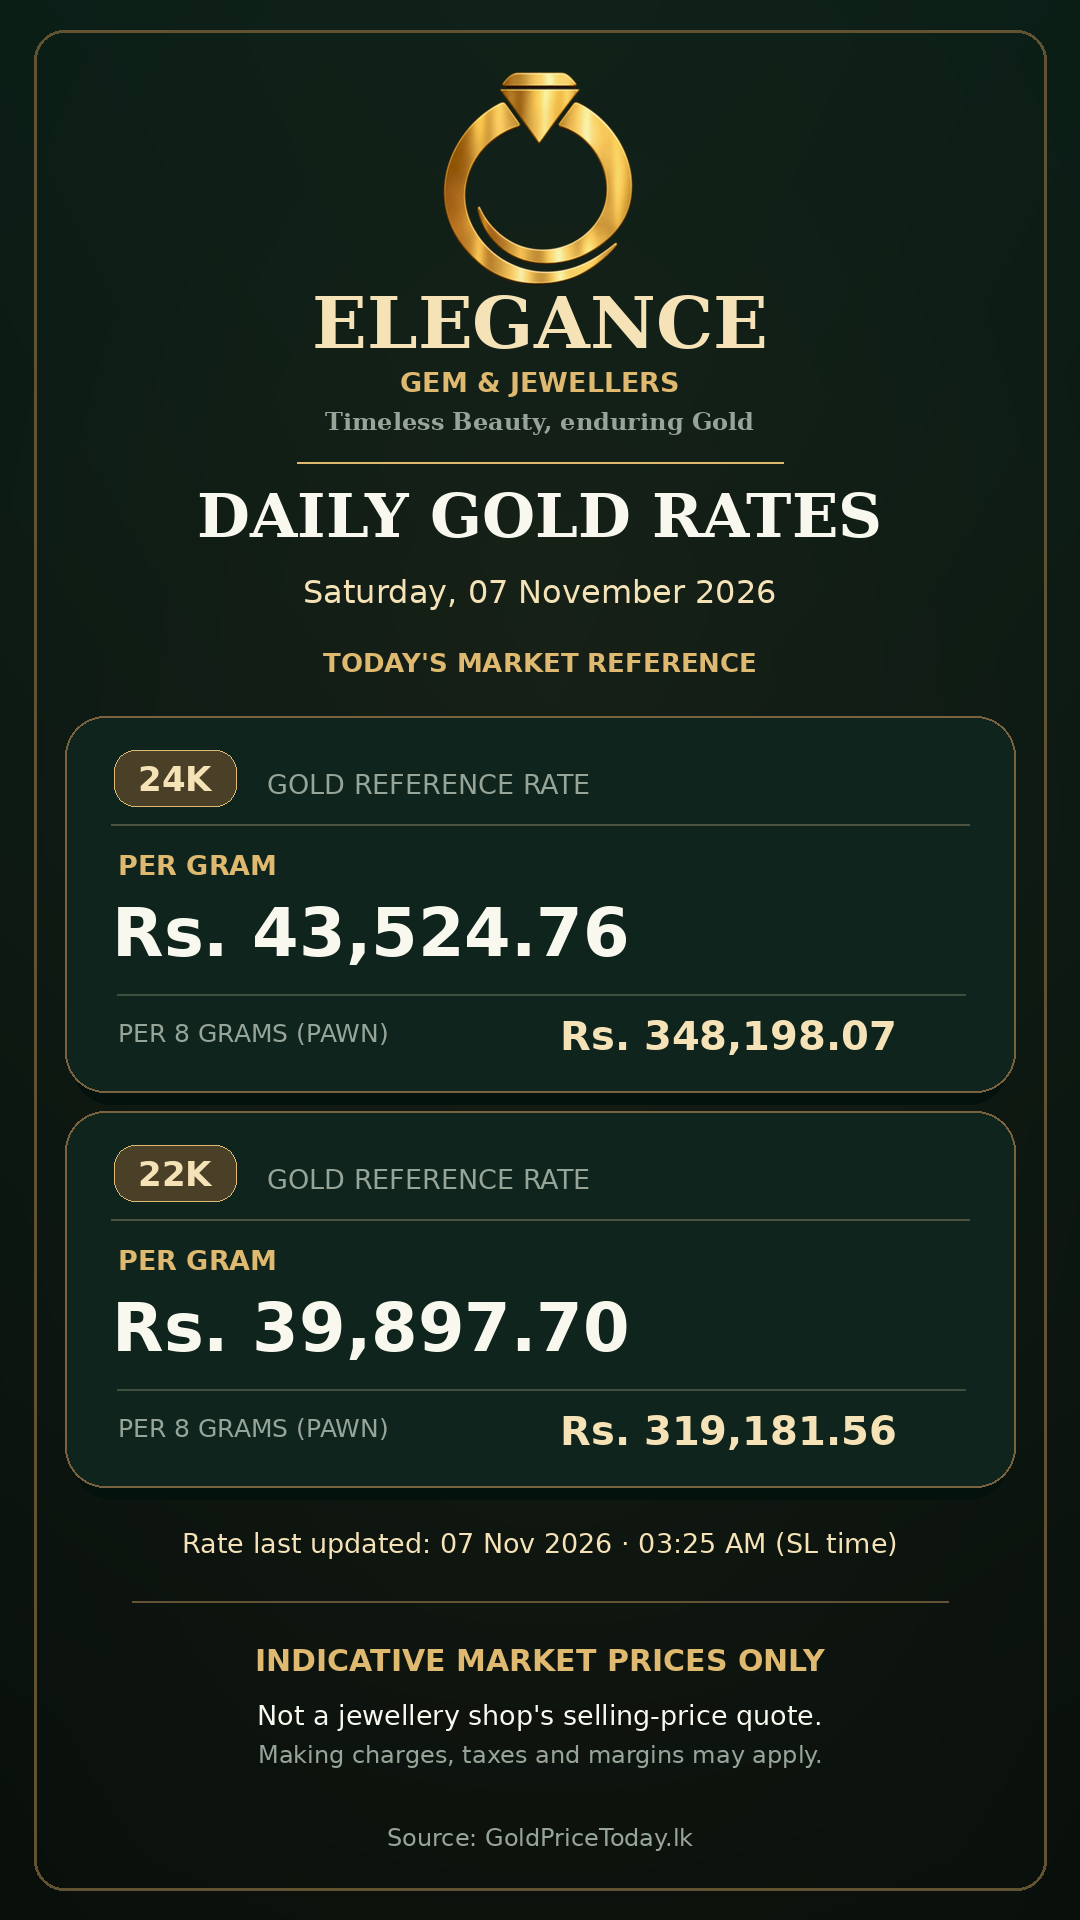
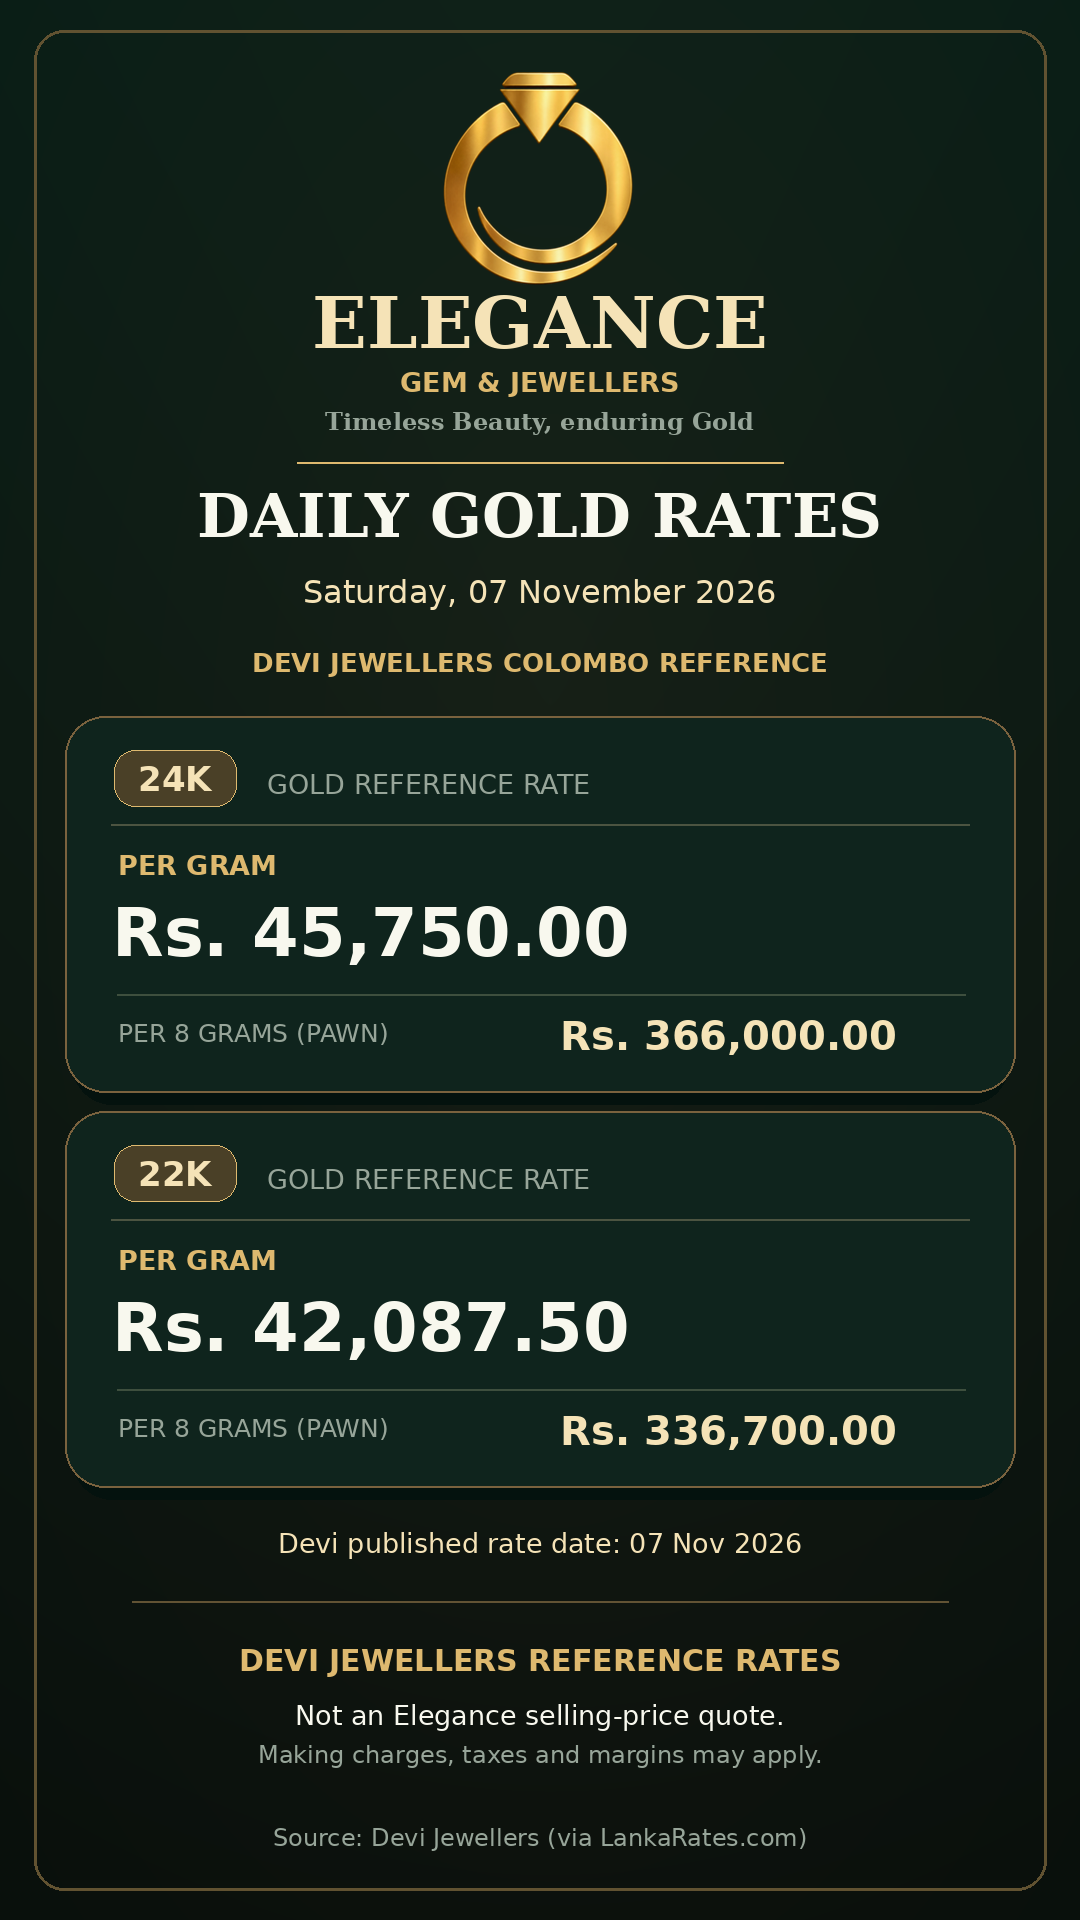
Switch Elegance gold-rate feed to Devi Jewellers Colombo

diff --git a/docs/index.html b/docs/index.html
@@ -14,7 +14,7 @@
 <body>
   <h1>Daily gold-rate image</h1>
   <p><a href="today.png">Open today's image</a></p>
-  <img src="today.png" alt="Latest indicative 22K and 24K gold prices">
-  <small>Indicative market reference, not a jewellery selling-price quote. See image for source timestamp.</small>
+  <img src="today.png" alt="Latest Devi Jewellers Colombo 22K and 24K gold reference rates">
+  <small>Devi Jewellers reference rate via LankaRates.com, not an Elegance selling-price quote. See image for source date.</small>
 </body>
 </html>

diff --git a/generate.py b/generate.py
@@ -1,8 +1,8 @@
 #!/usr/bin/env python3
-"""Create a daily, clearly labelled Sri Lankan gold-rate Status image.
+"""Create a daily Status image using Devi Jewellers' Colombo gold rates.
 
-The input is an indicative market-reference API, NOT a jewellery retail quote.
-Fail closed when the source is malformed or too old. `--demo` never uses live data.
+The public LankaRates comparison page republishes Devi's prices, in LKR per
+8-gram pawn. Do not call its pawn figures 'per gram'. Fail closed if stale.
 """
 
 import argparse
@@ -10,8 +10,10 @@ import json
 import math
 import os
 from datetime import datetime, timedelta
+from html.parser import HTMLParser
 from pathlib import Path
 from urllib.request import Request, urlopen
+from urllib.parse import urlparse
 from zoneinfo import ZoneInfo
 
 from PIL import Image, ImageDraw, ImageFilter, ImageFont
@@ -19,8 +21,9 @@ from PIL import Image, ImageDraw, ImageFilter, ImageFont
 
 ROOT = Path(__file__).resolve().parent
 OUTPUT = ROOT / "docs"
-SOURCE_API = "https://www.goldpricetoday.lk/api/v1/gold-price"
-SOURCE_NAME = "GoldPriceToday.lk"
+SOURCE_API = "https://lankarates.com/gold-rates"
+DEVI_SOURCE = "https://devijewellers.lk/gold-rate/"
+SOURCE_NAME = "Devi Jewellers (via LankaRates.com)"
 COLOMBO = ZoneInfo("Asia/Colombo")
 WIDTH, HEIGHT = 1080, 1920
 GOLD = (222, 185, 111)
@@ -64,6 +67,83 @@ def validate_rate(payload: dict, now: datetime) -> dict:
     return {"as_of": when, "prices": prices}
 
 
+class RatePageParser(HTMLParser):
+    """Collect publicly rendered Astro widget data from LankaRates' gold page."""
+
+    def __init__(self):
+        super().__init__()
+        self.props = []
+
+    def handle_starttag(self, tag, attrs):
+        if tag == "astro-island":
+            value = dict(attrs).get("props")
+            if value:
+                self.props.append(value)
+
+
+def unwrap_astro(value):
+    """Decode Astro's simple [type, value] wrappers for JSON widget props."""
+    if isinstance(value, list) and len(value) == 2 and value[0] in (0, 1):
+        return unwrap_astro(value[1])
+    if isinstance(value, list):
+        return [unwrap_astro(part) for part in value]
+    if isinstance(value, dict):
+        return {key: unwrap_astro(part) for key, part in value.items()}
+    return value
+
+
+def parse_devi_rates(html: str, now: datetime) -> dict:
+    """Return strictly attributed Devi rates; never use other jewellers' rows."""
+    page = RatePageParser()
+    page.feed(html)
+    matches = {}
+    for raw in page.props:
+        try:
+            data = unwrap_astro(json.loads(raw))
+        except (ValueError, TypeError, KeyError):
+            continue
+        for row in data.get("rates", []):
+            if not isinstance(row, dict):
+                continue
+            institution = row.get("institution", {})
+            commodity = row.get("commodity", {})
+            source = row.get("source", {})
+            if institution.get("code") != "devi-jewellers":
+                continue
+            purity = commodity.get("karat")
+            if purity not in ("22ct", "24ct") or commodity.get("unit") != "pawn_8g":
+                continue
+            source_url = urlparse(source.get("url", ""))
+            if source_url.netloc.lower() != "devijewellers.lk" or not source_url.path.startswith("/gold-rate"):
+                raise ValueError("Devi row does not link to Devi's official gold-rate page")
+            date_str = row.get("rateDate")
+            if date_str != source.get("effectiveDate"):
+                raise ValueError("Devi price date disagrees with source date")
+            published = datetime.strptime(date_str, "%Y-%m-%d").replace(tzinfo=COLOMBO)
+            price = float(row.get("rate", {}).get("priceLkr"))
+            if not math.isfinite(price) or not (50_000 <= price <= 3_000_000):
+                raise ValueError("Suspicious Devi 8-gram pawn price")
+            key = "24k" if purity == "24ct" else "22k"
+            found = (published, price)
+            if key in matches and matches[key] != found:
+                raise ValueError("Conflicting Devi gold-rate entries")
+            matches[key] = found
+    if set(matches) != {"22k", "24k"}:
+        raise ValueError("The public source did not contain both Devi 22K and 24K pawn prices")
+    if matches["22k"][0] != matches["24k"][0]:
+        raise ValueError("Devi 22K and 24K prices have different effective dates")
+
+    published = matches["24k"][0]
+    payload = {
+        "status": "ok", "currency": "LKR", "as_of": published.isoformat(),
+        "prices": {
+            purity: {"per_gram": pawn / 8, "per_8g": pawn}
+            for purity, (_, pawn) in matches.items()
+        },
+    }
+    return validate_rate(payload, now)
+
+
 def get_rates(demo=False):
     now = datetime.now(COLOMBO)
     if demo:
@@ -76,11 +156,14 @@ def get_rates(demo=False):
         }
     else:
         request = Request(SOURCE_API, headers={
-            "User-Agent": "GoldRateStatusImage/1.0 (+daily reference image)",
-            "Accept": "application/json",
+            "User-Agent": "EleganceGoldRates/1.0 (daily published-rate display)",
+            "Accept": "text/html",
         })
         with urlopen(request, timeout=25) as response:
-            payload = json.load(response)
+            html = response.read(2_000_000).decode("utf-8")
+        result = parse_devi_rates(html, now)
+        result["date_only"] = True
+        return now, result
     result = validate_rate(payload, now)
     return now, result
 
@@ -153,17 +236,20 @@ def render(now, data, demo, shop_name, shop_subtitle, shop_tagline, logo_path):
 
     reference_day = data["as_of"].date() == now.date()
     label = "LATEST MARKET REFERENCE" if not reference_day else "TODAY'S MARKET REFERENCE"
+    if data.get("date_only"):
+        label = "DEVI JEWELLERS COLOMBO REFERENCE"
     centered(d, (540, 663), label, GOLD, font(26, bold=True))
     card(d, 716, "24K", data["prices"]["24k"])
     card(d, 1111, "22K", data["prices"]["22k"])
 
-    timestamp = data["as_of"].strftime("%d %b %Y · %I:%M %p")
-    centered(d, (540, 1543), f"Rate last updated: {timestamp} (SL time)", PALE,
+    timestamp = data["as_of"].strftime("%d %b %Y") if data.get("date_only") else data["as_of"].strftime("%d %b %Y · %I:%M %p")
+    date_label = "Devi published rate date" if data.get("date_only") else "Rate last updated"
+    centered(d, (540, 1543), f"{date_label}: {timestamp}", PALE,
              font(27))
     d.line((132, 1601, 948, 1601), fill=(98, 83, 52), width=2)
-    centered(d, (540, 1661), "INDICATIVE MARKET PRICES ONLY", GOLD,
+    centered(d, (540, 1661), "DEVI JEWELLERS REFERENCE RATES", GOLD,
              font(30, bold=True))
-    centered(d, (540, 1715), "Not a jewellery shop's selling-price quote.",
+    centered(d, (540, 1715), "Not an Elegance selling-price quote.",
              WHITE, font(27))
     centered(d, (540, 1754), "Making charges, taxes and margins may apply.",
              MUTED, font(24))
@@ -200,11 +286,12 @@ def main():
     if not args.demo:
         metadata = {
             "generated_at": now.isoformat(),
-            "source": SOURCE_NAME,
-            "source_url": SOURCE_API,
-            "price_as_of": data["as_of"].isoformat(),
+            "source": "Devi Jewellers, Colombo",
+            "source_url": DEVI_SOURCE,
+            "retrieved_via": SOURCE_API,
+            "price_date": data["as_of"].date().isoformat(),
             "currency": "LKR",
-            "type": "indicative_market_reference_not_retail_quote",
+            "type": "devi_published_reference_not_elegance_retail_quote",
             "prices": data["prices"],
         }
         (OUTPUT / "today.json").write_text(json.dumps(metadata, indent=2) + "\n", encoding="utf-8")

diff --git a/tests/test_generate.py b/tests/test_generate.py
@@ -1,8 +1,9 @@
 import unittest
+import json
 from datetime import datetime, timedelta
 from zoneinfo import ZoneInfo
 
-from generate import validate_rate
+from generate import validate_rate, parse_devi_rates
 
 
 TZ = ZoneInfo("Asia/Colombo")
@@ -45,6 +46,52 @@ class ValidationTests(unittest.TestCase):
         bad["prices"]["24k"]["per_8g"] = 1
         with self.assertRaises(ValueError):
             validate_rate(bad, self.now)
+
+
+def wrap(value):
+    if isinstance(value, dict):
+        return [0, {key: wrap(part) for key, part in value.items()}]
+    if isinstance(value, list):
+        return [1, [wrap(part) for part in value]]
+    return [0, value]
+
+
+def devi_page(day="2026-11-07", rates=None):
+    if rates is None:
+        rates = {"24ct": 366000, "22ct": 336700}
+    rows = []
+    for carat, pawn in rates.items():
+        rows.append({
+            "institution": {"code": "devi-jewellers"},
+            "commodity": {"karat": carat, "unit": "pawn_8g"},
+            "rate": {"priceLkr": pawn},
+            "rateDate": day,
+            "source": {"url": "https://devijewellers.lk/gold-rate", "effectiveDate": day},
+        })
+    return "<astro-island props='" + json.dumps({"rates": wrap(rows)}) + "'></astro-island>"
+
+
+class DeviSourceTests(unittest.TestCase):
+    def setUp(self):
+        self.now = datetime(2026, 11, 7, 9, 0, tzinfo=TZ)
+
+    def test_pawn_is_converted_to_per_gram(self):
+        result = parse_devi_rates(devi_page(), self.now)
+        self.assertEqual(result["prices"]["24k"]["per_gram"], 45750)
+        self.assertEqual(result["prices"]["22k"]["per_gram"], 42087.5)
+        self.assertEqual(result["prices"]["22k"]["per_8g"], 336700)
+
+    def test_missing_devi_karat_fails(self):
+        with self.assertRaises(ValueError):
+            parse_devi_rates(devi_page(rates={"24ct": 366000}), self.now)
+
+    def test_stale_devi_date_fails(self):
+        with self.assertRaises(ValueError):
+            parse_devi_rates(devi_page(day="2026-11-01"), self.now)
+
+    def test_conflicting_devi_rates_fail(self):
+        with self.assertRaises(ValueError):
+            parse_devi_rates(devi_page() + devi_page(rates={"24ct": 367000, "22ct": 336700}), self.now)
 
 
 if __name__ == "__main__":

diff --git a/README.md b/README.md
@@ -1,8 +1,8 @@
 # Sri Lanka Daily Gold-Price Image — iPhone + WhatsApp Business
 
-Generates a premium Elegance Gem & Jewellers vertical (1080×1920) 22K / 24K gold-price picture, including
-per-gram and per-8-gram (pawn) values, a visible source timestamp, and a clear
-"indicative market reference" warning. It can run daily on GitHub Actions.
+Generates a premium Elegance Gem & Jewellers vertical (1080×1920) 22K / 24K gold-price picture using
+**Devi Jewellers, Colombo** reference prices, including per-gram and per-8-gram
+(pawn) values, a visible source date, and a clear disclaimer. It runs daily on GitHub Actions.
 
 **What it does not do:** automatically post to WhatsApp Status. WhatsApp does
 not provide a supported Status-publishing API. Your friend will post from their
@@ -10,15 +10,25 @@ iPhone's WhatsApp Business app after the picture is automatically saved to Photo
 
 ## Rate source and safeguards
 
-- JSON API: https://www.goldpricetoday.lk/api/v1/gold-price
-- Commercial-use API terms: https://www.goldpricetoday.lk/terms
-- API is a third-party *indicative* market reference, **not a retail jewellery quote**.
-- Validate currency, values and source timestamps; reject readings older than
-  72 hours. In weekends and holidays, an older valid observation is labelled
-  "latest" and carries the exact underlying timestamp.
-- If the feed is unavailable, invalid or too old, **the job fails rather than
-  generating a misleading new image**. The previously published file remains.
-- It is your responsibility to check that this source is suitable for the shop.
+- Official Devi Jewellers source: https://devijewellers.lk/gold-rate/
+- Automated retrieval from **LankaRates.com** public comparison page:
+  https://lankarates.com/gold-rates. We use only the rows explicitly attributed
+  to Devi Jewellers and pointing at its official page. The direct Devi website
+  returned an automated-traffic challenge during setup, so no attempt is made
+  to bypass that protection. This is **not** a Devi official API.
+- Devi's 24K and 22K displayed prices (e.g. Rs. 366,000 and Rs. 336,700 on
+  7 Nov 2026) are **per 8 grams (one pawn)** despite an inconsistent `/g`
+  label on parts of the Devi site. We correctly divide each by 8 for per-gram
+  prices; this matches LankaRates' units.
+- Validate institution, source URL, currency, purity, value and publication
+  date; reject rates older than 72 hours. For weekends or holidays, older
+  valid reference prices retain their actual source date.
+- If the feed is unavailable, inconsistent or too old, **the job fails rather
+  than generating an apparently fresh but misleading new image**. The
+  previously published image remains unchanged, so review its date before posting.
+- The values represent **Devi-published reference rates**, not Elegance's own
+  retail selling-price quote. Confirm suitability and data-reuse permission
+  with the relevant provider before using at commercial scale.
 
 ## Try the design first
 
